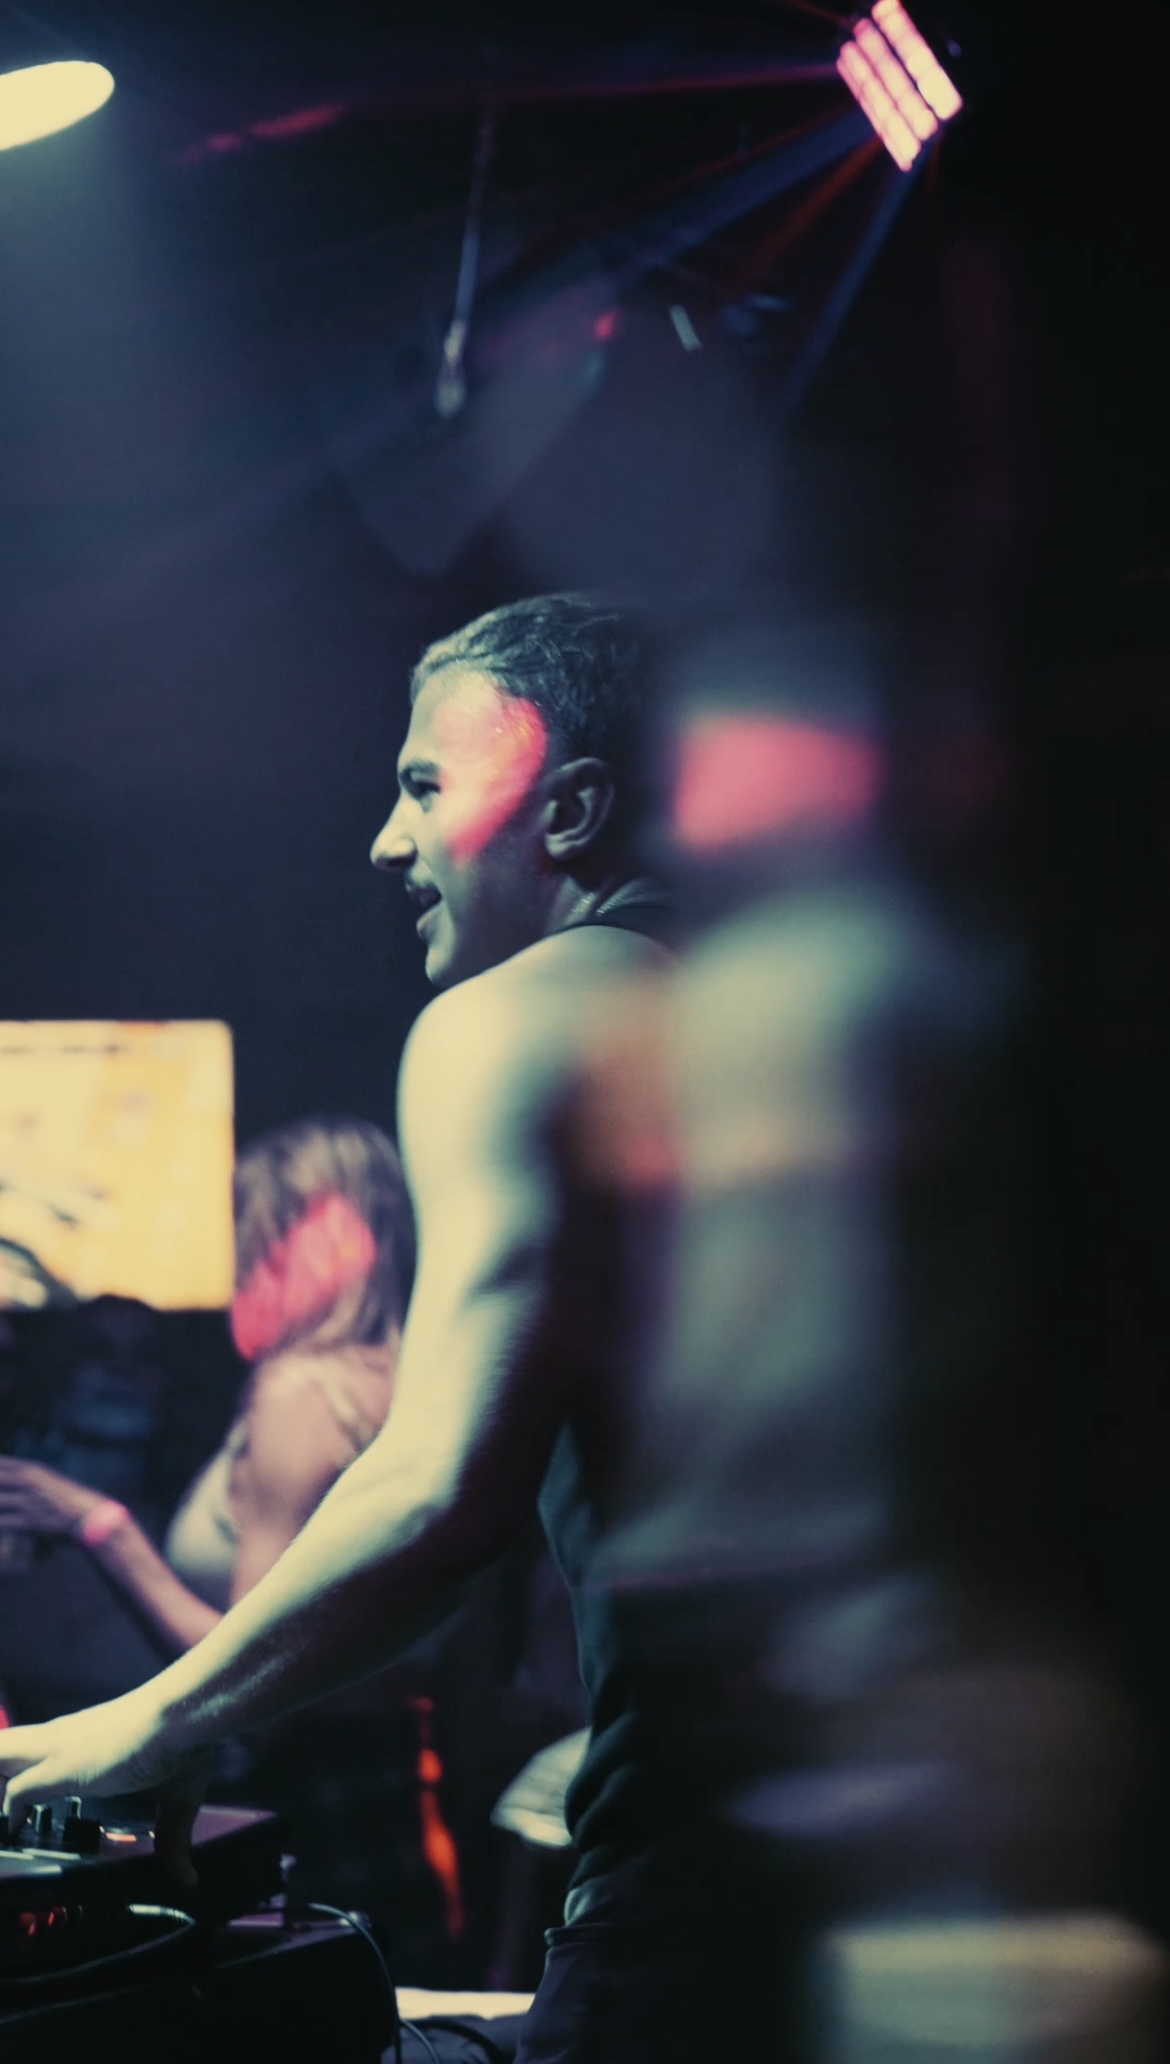
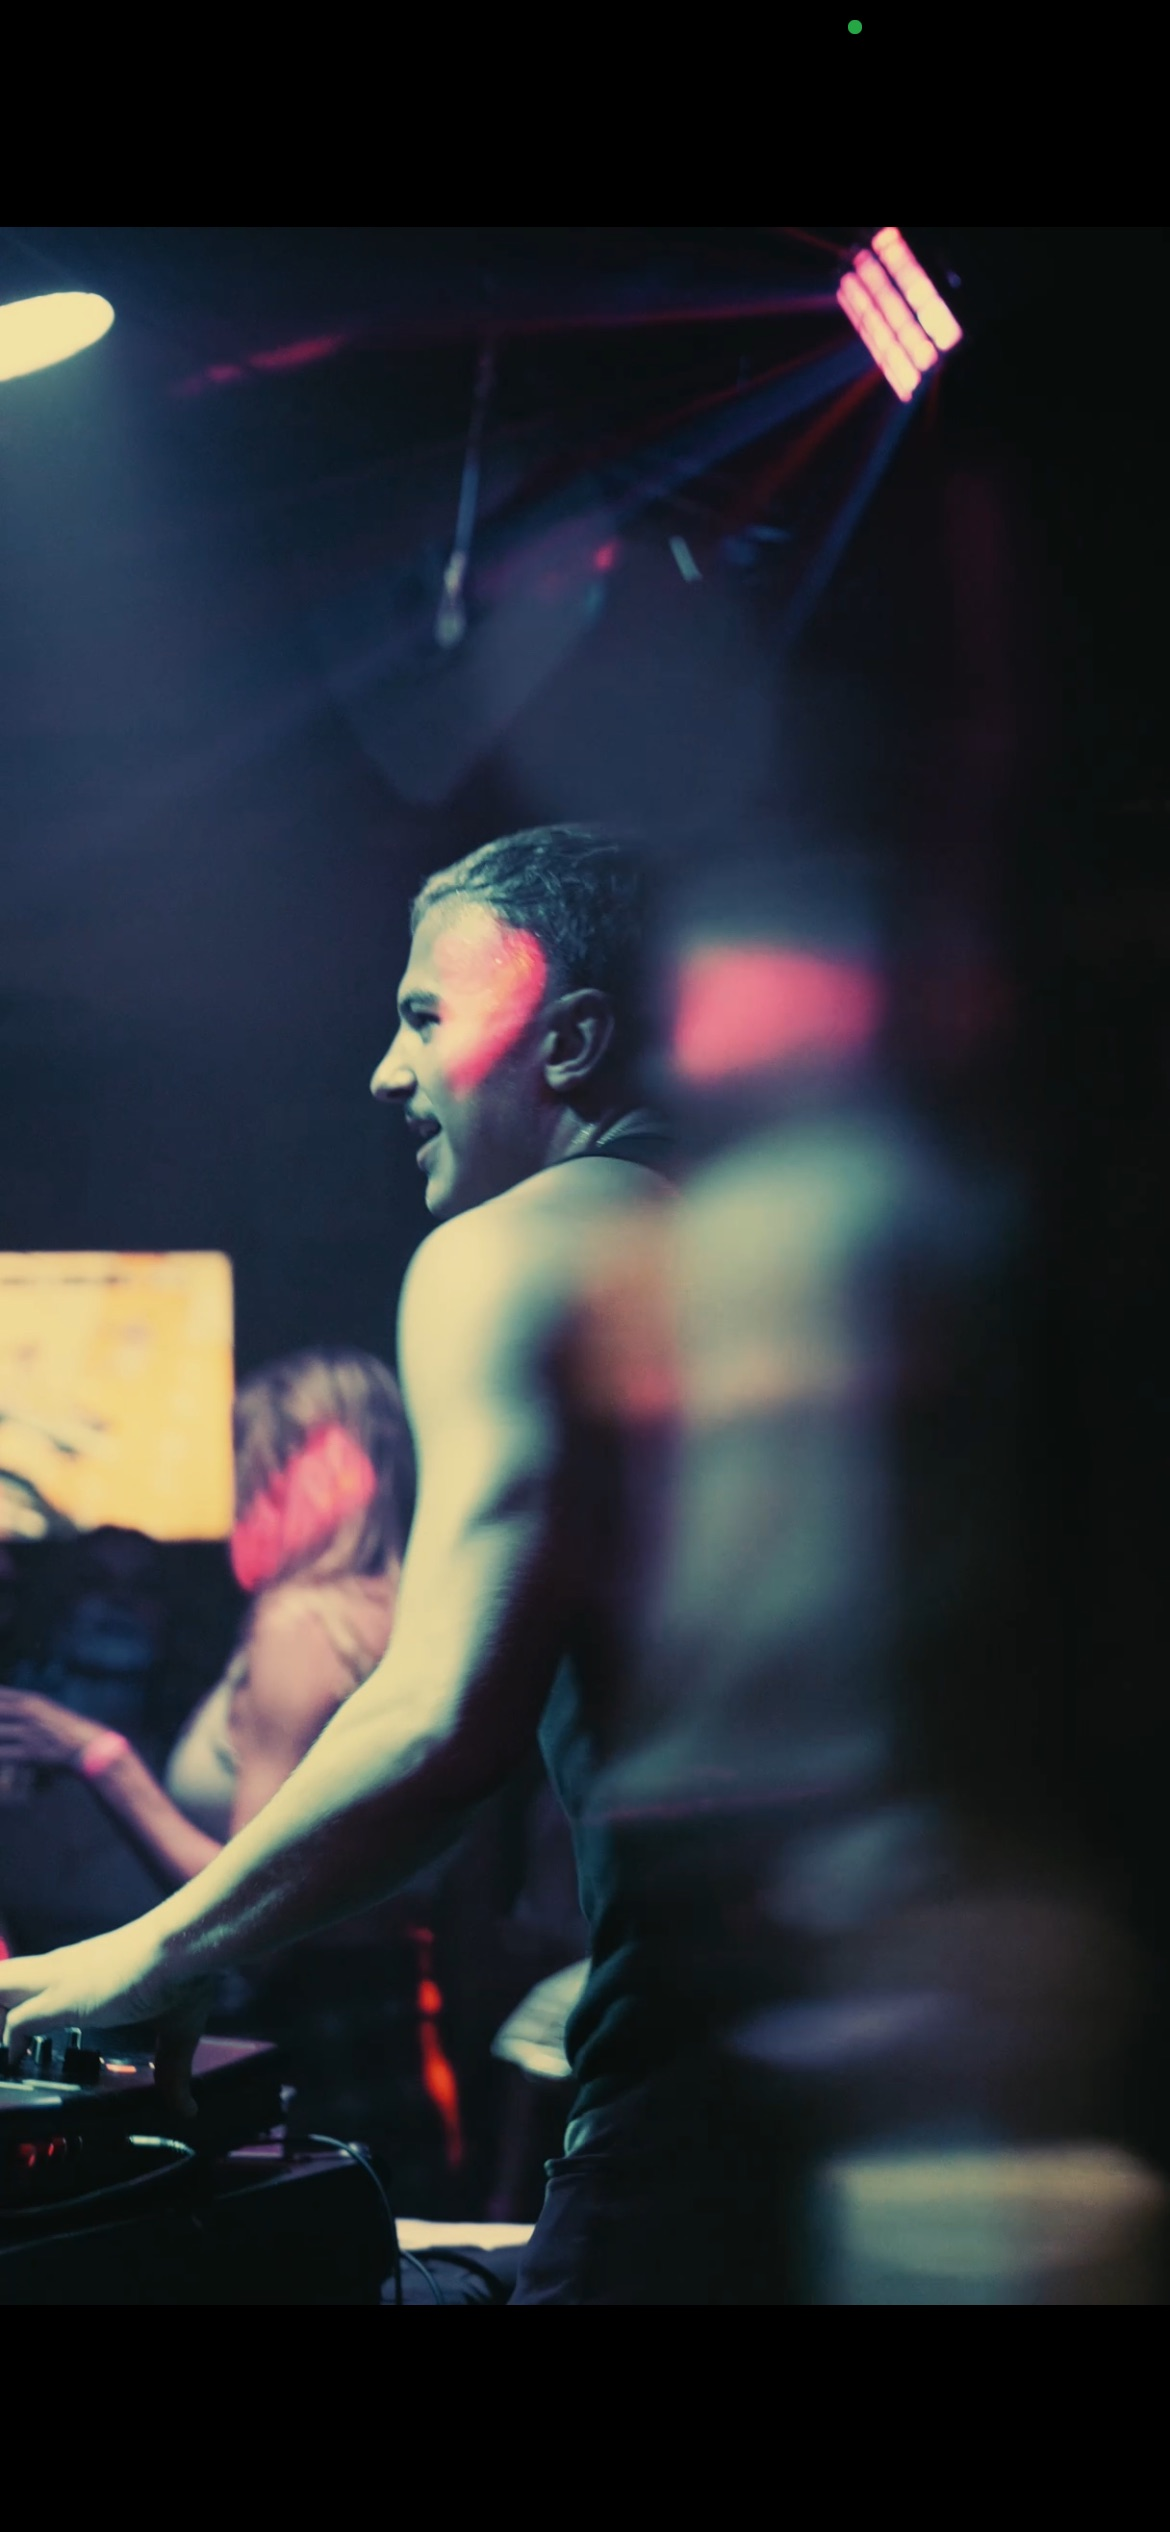
site: massive image weight cut (S1 + S2)
Convert iPhone-shot PNG photos → JPEG @ q82 at same dimensions,
and downsize the 4000×6000 camera shot to 1600 wide. Delete five
unreferenced images that were sitting in the repo.

Results:
  crowd-pink (hero):    4280 KB → 188 KB  (-96%)
  DSC08604 (mosaic):    5632 KB → 248 KB  (-96%)
  IMG_0369:             4280 KB → 188 KB
  IMG_0484:             2052 KB → 184 KB
  IMG_0429:             1660 KB → 224 KB
  IMG_0446 (about bg):   760 KB → 132 KB
  IMG_0447:              804 KB → 136 KB
  IMG_0436:              776 KB → 144 KB
  IMG_0431:              712 KB → 120 KB
  dj-orange:             852 KB → 144 KB

  Repo (tracked): 97 MB → 17.6 MB

References in index/events/gallery HTML rewritten from the old
.PNG/.png/.JPEG names to the new .jpg names. Verified no stale
references remain.

Originals preserved locally in _originals/ (gitignored) plus git
history for one-command recovery if any conversion is too lossy.
Five orphans deleted (laser-show, img-9657, dj-headphones,
img-0299, dj-crowd) — none were referenced anywhere.

Hero LCP on mobile should drop by an order of magnitude.

diff --git a/gallery.html b/gallery.html
@@ -11,10 +11,10 @@
   <meta property="og:url" content="https://glenngallacher1-lab.github.io/velvet-vibrance/gallery.html" />
   <meta property="og:title" content="VELVET VIBRANCE — The Gallery" />
   <meta property="og:description" content="Memories of nights worth living for." />
-  <meta property="og:image" content="https://glenngallacher1-lab.github.io/velvet-vibrance/crowd-pink.png" />
+  <meta property="og:image" content="https://glenngallacher1-lab.github.io/velvet-vibrance/crowd-pink.jpg" />
   <meta name="twitter:card" content="summary_large_image" />
   <meta name="twitter:title" content="VELVET VIBRANCE — The Gallery" />
-  <meta name="twitter:image" content="https://glenngallacher1-lab.github.io/velvet-vibrance/crowd-pink.png" />
+  <meta name="twitter:image" content="https://glenngallacher1-lab.github.io/velvet-vibrance/crowd-pink.jpg" />
   <meta http-equiv="Content-Security-Policy" content="default-src 'self'; script-src 'self' 'unsafe-inline' https://cdnjs.cloudflare.com https://unpkg.com; style-src 'self' 'unsafe-inline' https://fonts.googleapis.com; font-src https://fonts.gstatic.com; img-src 'self' https://raw.githubusercontent.com data:; media-src 'self' https://raw.githubusercontent.com; connect-src 'self' https://raw.githubusercontent.com; frame-ancestors 'none'; object-src 'none'; base-uri 'self'; form-action 'self';" />
   <meta http-equiv="X-Content-Type-Options" content="nosniff" />
   <meta name="referrer" content="strict-origin-when-cross-origin" />
@@ -112,25 +112,25 @@
   ══════════════════════════════════════════════════════════ -->
   <script>
     const MEDIA = [
-      { src: 'IMG_0446.PNG',                                                     label: 'Velvet · 0446' },
+      { src: 'IMG_0446.jpg',                                                     label: 'Velvet · 0446' },
       { src: 'stanzza-03.mp4',  type: 'video', poster: 'stanzza-03-poster.jpg', label: 'STANZZA · Marquee' },
-      { src: 'dj-orange.png',                                                    label: 'In Session · 02' },
+      { src: 'dj-orange.jpg',                                                    label: 'In Session · 02' },
       { src: 'stanzza-still-01.jpg',                                             label: 'STANZZA · Pink' },
-      { src: 'IMG_0431.PNG',                                                     label: 'Velvet · 0431' },
+      { src: 'IMG_0431.jpg',                                                     label: 'Velvet · 0431' },
       { src: 'vv-event.mp4',    type: 'video',                                   label: 'Live · Reel' },
       { src: 'IMG_9627.jpg',                                                     label: 'Outdoor · Lights' },
       { src: 'stanzza-01.mp4',  type: 'video', poster: 'stanzza-01-poster.jpg', label: 'STANZZA · Room' },
-      { src: 'IMG_0447.PNG',                                                     label: 'Velvet · 0447' },
+      { src: 'IMG_0447.jpg',                                                     label: 'Velvet · 0447' },
       { src: 'IMG_0253.jpg',                                                     label: 'Crowd · Heater' },
       { src: 'Image-2-15-26-939AM.jpg',                                          label: 'Decks · 02·15' },
       { src: 'stanzza-02.mp4',  type: 'video', poster: 'stanzza-02-poster.jpg', label: 'STANZZA · Decks' },
       { src: 'crowd-outdoor.jpeg',                                               label: 'Outdoor · Sun' },
-      { src: 'IMG_0369.png',                                                     label: 'Crowd · Pink' },
+      { src: 'IMG_0369.jpg',                                                     label: 'Crowd · Pink' },
       { src: 'stanzza-04.mp4',  type: 'video', poster: 'stanzza-04-poster.jpg', label: 'STANZZA · Daylight' },
-      { src: 'IMG_0436.PNG',                                                     label: 'Velvet · 0436' },
-      { src: 'DSC08604.JPEG',                                                    label: 'Heart · Frequency' },
+      { src: 'IMG_0436.jpg',                                                     label: 'Velvet · 0436' },
+      { src: 'DSC08604.jpg',                                                    label: 'Heart · Frequency' },
       { src: 'stanzza-teaser.jpg',                                               label: 'STANZZA · Marquee Wide' },
-      { src: 'IMG_0484.png',                                                     label: 'Velvet · 0484' },
+      { src: 'IMG_0484.jpg',                                                     label: 'Velvet · 0484' },
       { src: 'stanzza-still-03.jpg',                                             label: 'Outdoor · Set' },
       { src: '4A2E3D97-47D6-48A3-86AE-560F807ADFE0.jpeg',                        label: 'Velvet · Latest' }
     ];

diff --git a/index.html b/index.html
@@ -13,12 +13,12 @@
   <meta property="og:url" content="https://glenngallacher1-lab.github.io/velvet-vibrance/" />
   <meta property="og:title" content="VELVET VIBRANCE — Where Art Bleeds Into Gold" />
   <meta property="og:description" content="A music, art, fashion and events collective born from frequency." />
-  <meta property="og:image" content="https://glenngallacher1-lab.github.io/velvet-vibrance/crowd-pink.png" />
+  <meta property="og:image" content="https://glenngallacher1-lab.github.io/velvet-vibrance/crowd-pink.jpg" />
   <meta property="og:image:alt" content="Velvet Vibrance — crowd shot in warm pink light" />
   <meta name="twitter:card" content="summary_large_image" />
   <meta name="twitter:title" content="VELVET VIBRANCE" />
   <meta name="twitter:description" content="Where Art Bleeds Into Gold." />
-  <meta name="twitter:image" content="https://glenngallacher1-lab.github.io/velvet-vibrance/crowd-pink.png" />
+  <meta name="twitter:image" content="https://glenngallacher1-lab.github.io/velvet-vibrance/crowd-pink.jpg" />
   <meta http-equiv="Content-Security-Policy" content="default-src 'self'; script-src 'self' 'unsafe-inline' https://cdnjs.cloudflare.com https://unpkg.com; style-src 'self' 'unsafe-inline' https://fonts.googleapis.com; font-src https://fonts.gstatic.com; img-src 'self' https://raw.githubusercontent.com data:; media-src 'self' https://raw.githubusercontent.com; connect-src 'self' https://raw.githubusercontent.com https://script.google.com https://script.googleusercontent.com; frame-ancestors 'none'; object-src 'none'; base-uri 'self'; form-action 'self';" />
   <meta http-equiv="X-Content-Type-Options" content="nosniff" />
   <meta name="referrer" content="strict-origin-when-cross-origin" />
@@ -86,7 +86,7 @@
        HERO
   ══════════════════════════════════════════════════════════ -->
   <section id="hero">
-    <!-- HERO-BG-START --><div class="hero-bg" id="hero-bg" role="img" aria-label="Crowd bathed in warm pink light at a Velvet Vibrance night" style="background-image:url('crowd-pink.png')"></div><!-- HERO-BG-END -->
+    <!-- HERO-BG-START --><div class="hero-bg" id="hero-bg" role="img" aria-label="Crowd bathed in warm pink light at a Velvet Vibrance night" style="background-image:url('crowd-pink.jpg')"></div><!-- HERO-BG-END -->
     <div class="hero-overlay"></div>
     <div class="hero-vignette" id="hero-vignette"></div>
     <div class="hero-noise"></div>
@@ -125,7 +125,7 @@
 
       <div class="about-image reveal-right">
         <div class="about-img-inner">
-          <img src="IMG_0429.PNG" alt="Velvet Vibrance — In Session" class="about-img-feature" />
+          <img src="IMG_0429.jpg" alt="Velvet Vibrance — In Session" class="about-img-feature" />
         </div>
       </div>
 
@@ -137,7 +137,7 @@
   ══════════════════════════════════════════════════════════ -->
   <section id="gallery-teaser" class="section-dof">
     <a href="gallery.html" class="gt-link" data-transition="gallery" aria-label="Enter the Gallery">
-      <div class="gt-bg" role="img" aria-label="Warm-lit portrait from a Velvet Vibrance night" style="background-image:url('IMG_0446.PNG')"></div>
+      <div class="gt-bg" role="img" aria-label="Warm-lit portrait from a Velvet Vibrance night" style="background-image:url('IMG_0446.jpg')"></div>
       <div class="gt-veil"></div>
       <div class="gt-inner">
         <p class="section-eyebrow reveal-up">Archive</p>

diff --git a/events.html b/events.html
@@ -11,10 +11,10 @@
   <meta property="og:url" content="https://glenngallacher1-lab.github.io/velvet-vibrance/events.html" />
   <meta property="og:title" content="VELVET VIBRANCE — The Lineup" />
   <meta property="og:description" content="The next nights tuned to the frequency." />
-  <meta property="og:image" content="https://glenngallacher1-lab.github.io/velvet-vibrance/crowd-pink.png" />
+  <meta property="og:image" content="https://glenngallacher1-lab.github.io/velvet-vibrance/crowd-pink.jpg" />
   <meta name="twitter:card" content="summary_large_image" />
   <meta name="twitter:title" content="VELVET VIBRANCE — The Lineup" />
-  <meta name="twitter:image" content="https://glenngallacher1-lab.github.io/velvet-vibrance/crowd-pink.png" />
+  <meta name="twitter:image" content="https://glenngallacher1-lab.github.io/velvet-vibrance/crowd-pink.jpg" />
   <meta http-equiv="Content-Security-Policy" content="default-src 'self'; script-src 'self' 'unsafe-inline' https://cdnjs.cloudflare.com; style-src 'self' 'unsafe-inline' https://fonts.googleapis.com; font-src https://fonts.gstatic.com; img-src 'self' https://raw.githubusercontent.com data:; media-src 'self' https://raw.githubusercontent.com; connect-src 'self' https://raw.githubusercontent.com; frame-ancestors 'none';" />
   <meta http-equiv="X-Content-Type-Options" content="nosniff" />
   <meta name="referrer" content="strict-origin-when-cross-origin" />
